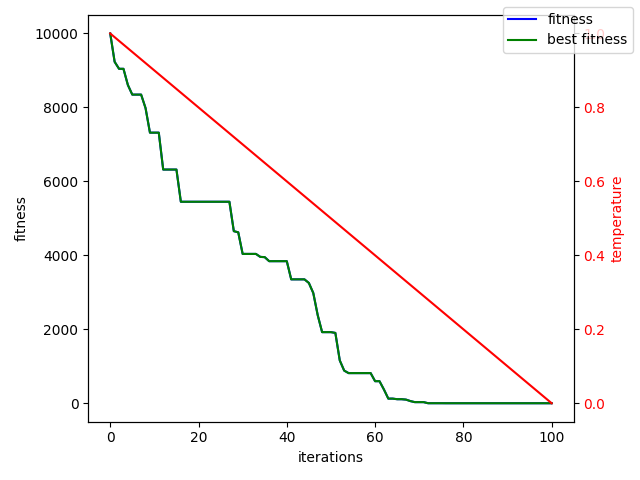
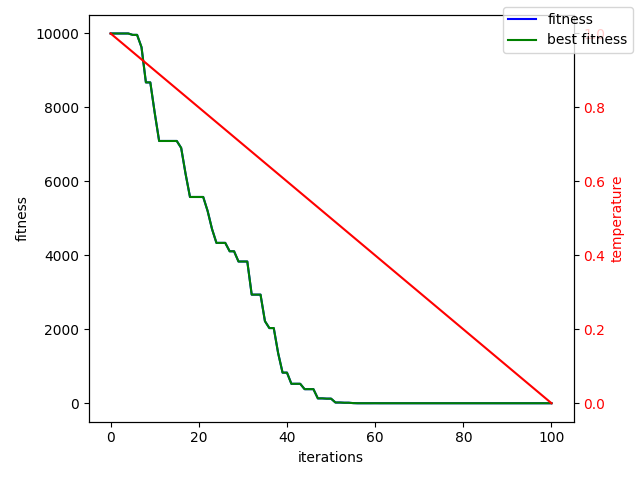
modified x^2 files for GA

diff --git a/x^2.py b/x^2.py
@@ -1,17 +1,42 @@
-from continuous_fn import cts_mutate
-from algorithms.simulated_annealing import (simulated_annealing, thermodynamic_init_temp, 
-                                 thermodynamic_simulated_annealing,
-                                 metropolis_hastings_algorithm_probability, 
-                                 print_simulated_annealing)
+from continuous_fn import *
+from algorithms.simulated_annealing import *
+from algorithms.genetic_algorithm import *
+import random
 import numpy as np
 
 def square(x):
-    return x**2
+    return x**2 + 0.001
 
 def mutate(x):
     return cts_mutate(x, sigma=5)
 
+def crossover(parent1, parent2, num_children=2):
+    low = np.minimum(parent1, parent2)
+    high = np.maximum(parent1, parent2)
+
+    children = []
+    for i in range(num_children):
+        children.append(np.random.uniform(low, high))
+    return children
+
 folder = "x^2_results/"
+
+
+"""
+Genetic Algorithm
+"""
+print("-"*80)
+print("Genetic Algorithm")
+
+maxValue = 100
+populationSize = maxValue//10
+inputs = random.sample(range(0, maxValue), populationSize)
+crossoverRate = 0.7
+mutationRate = 0.032
+numGenerations = max(100, maxValue//10)
+
+res, best, avg, worst = geneticAlgorithm(inputs, crossover, crossoverRate, mutate, mutationRate, square, numGenerations)
+printGA(best, avg, worst, f"{folder}GA_Pop={populationSize}_Gens={numGenerations}_crossRate={crossoverRate}_mutRat={mutationRate}.png")
 
 """
 Simulated Annealing
